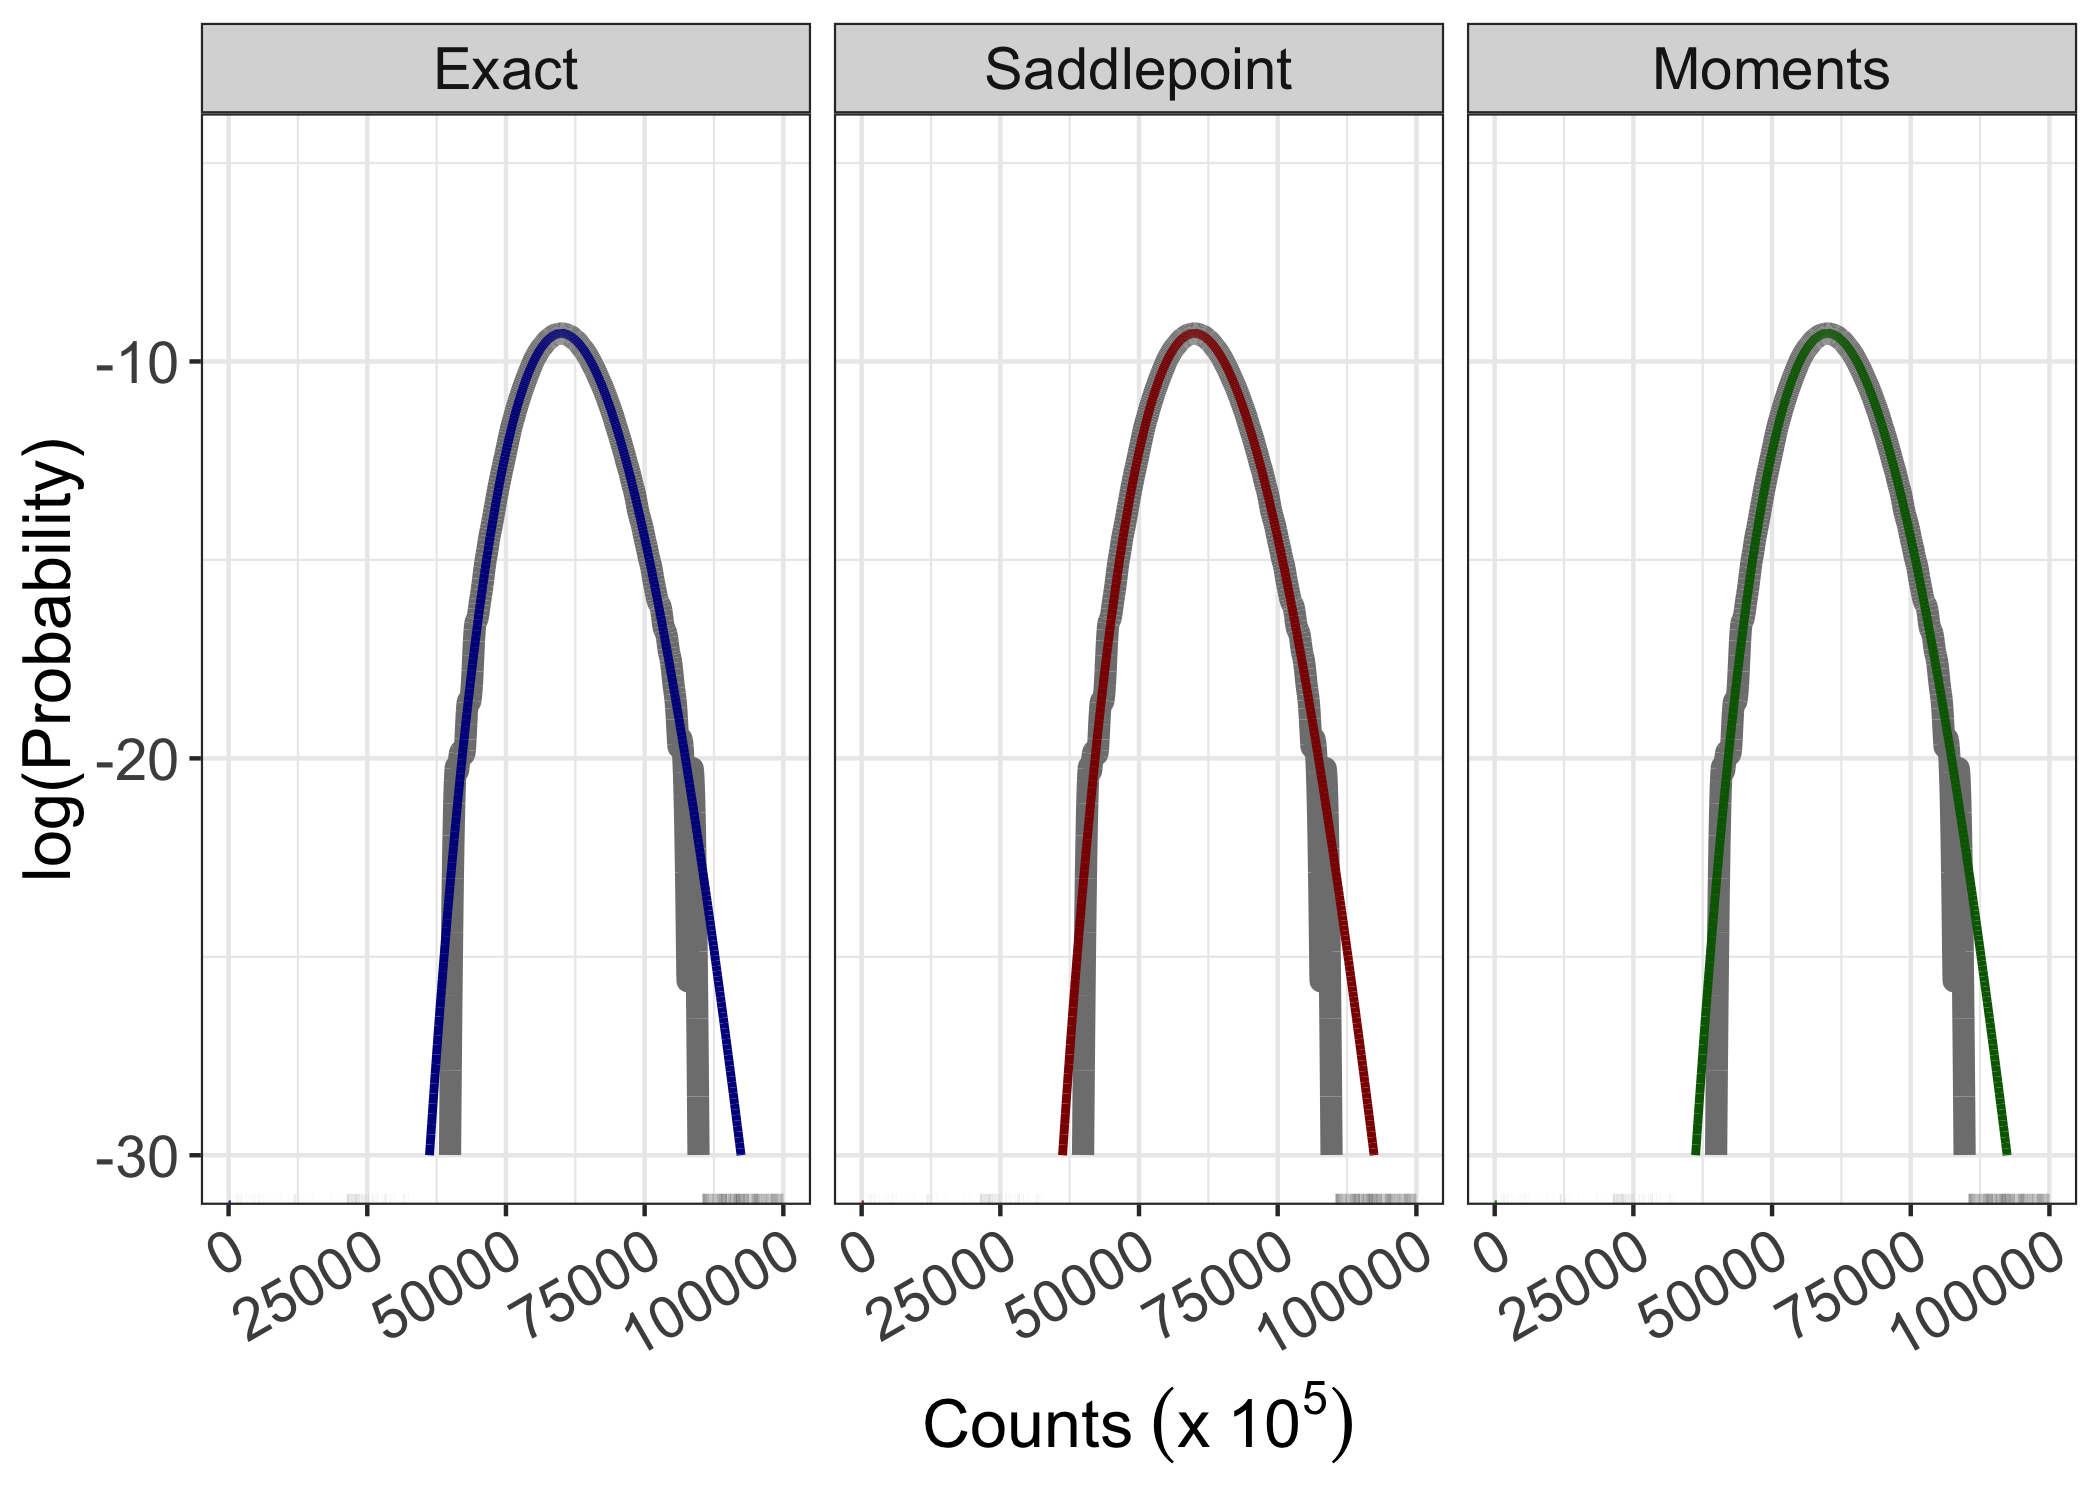
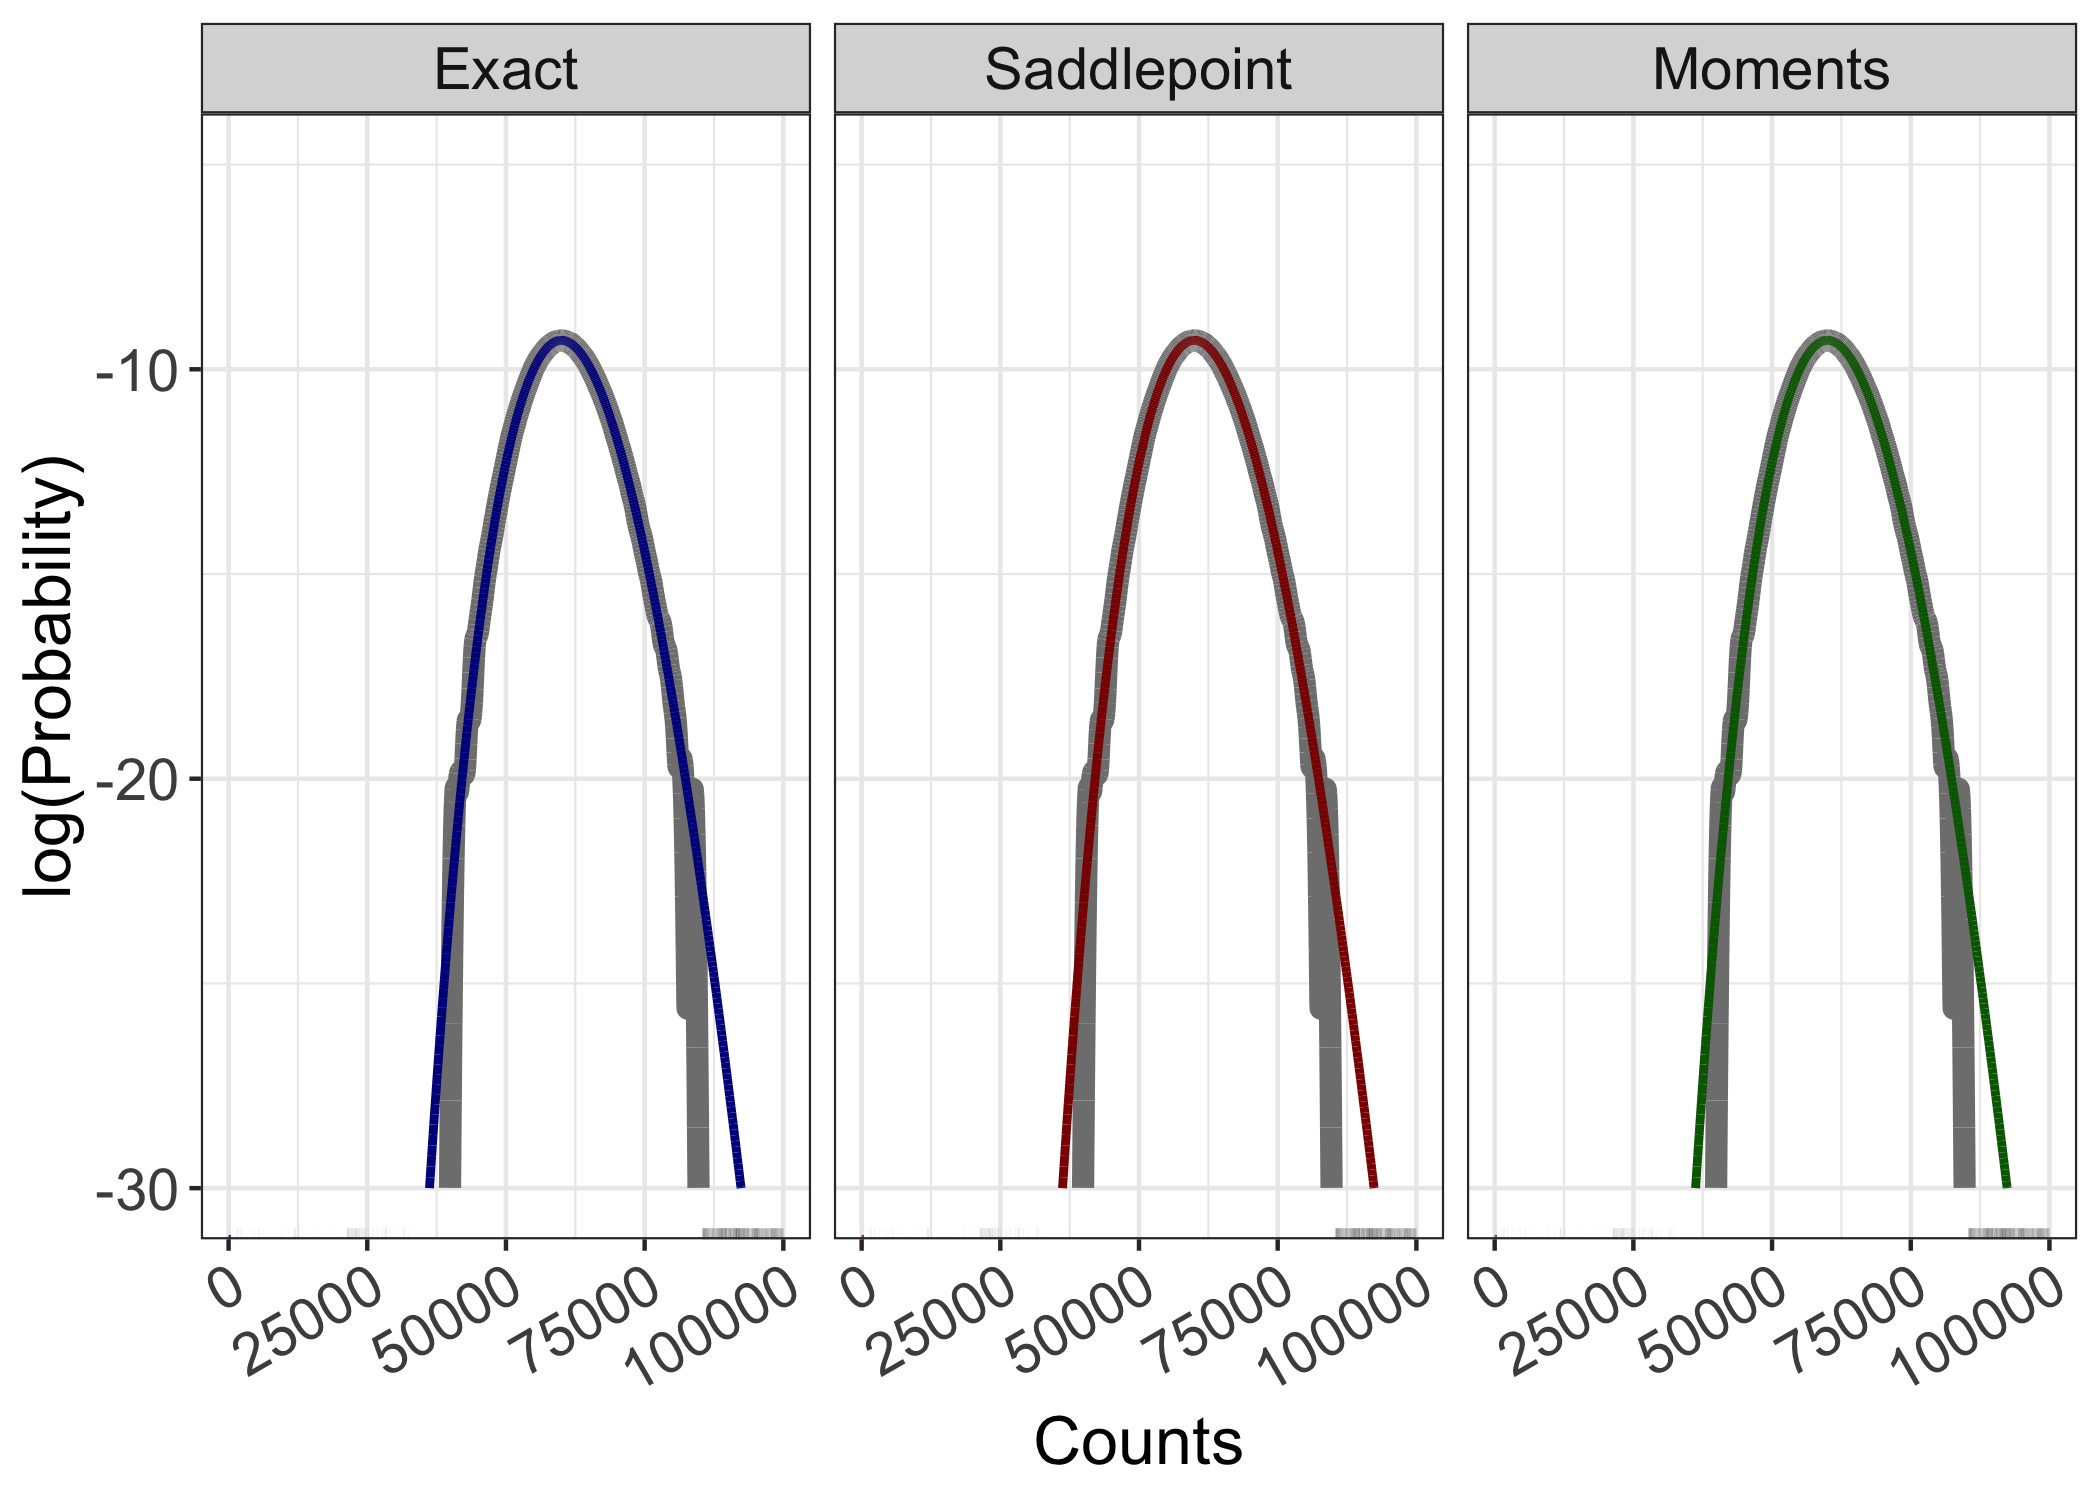
fixed typo on nbconv post

Changed region(s): [[0.0, 0.2147, 0.9905, 0.9813], [0.1857, 0.6133, 0.2167, 0.6747], [0.0619, 0.2147, 0.0929, 0.276]]

diff --git a/_posts/2023-02-01-nb-convolutions.md b/_posts/2023-02-01-nb-convolutions.md
@@ -655,7 +655,7 @@ methods.dist.plot1 <- ggplot(data = methods.df1,
         legend.position = "none") +
   scale_x_continuous(limits = c(0, n.counts1)) +
   scale_y_continuous(limits = c(-30, -5)) +
-  labs(x = Counts~(x~10^5), y = "log(Probability)")
+  labs(x = "Counts", y = "log(Probability)")
 
 methods.dist.plot1
 ```
